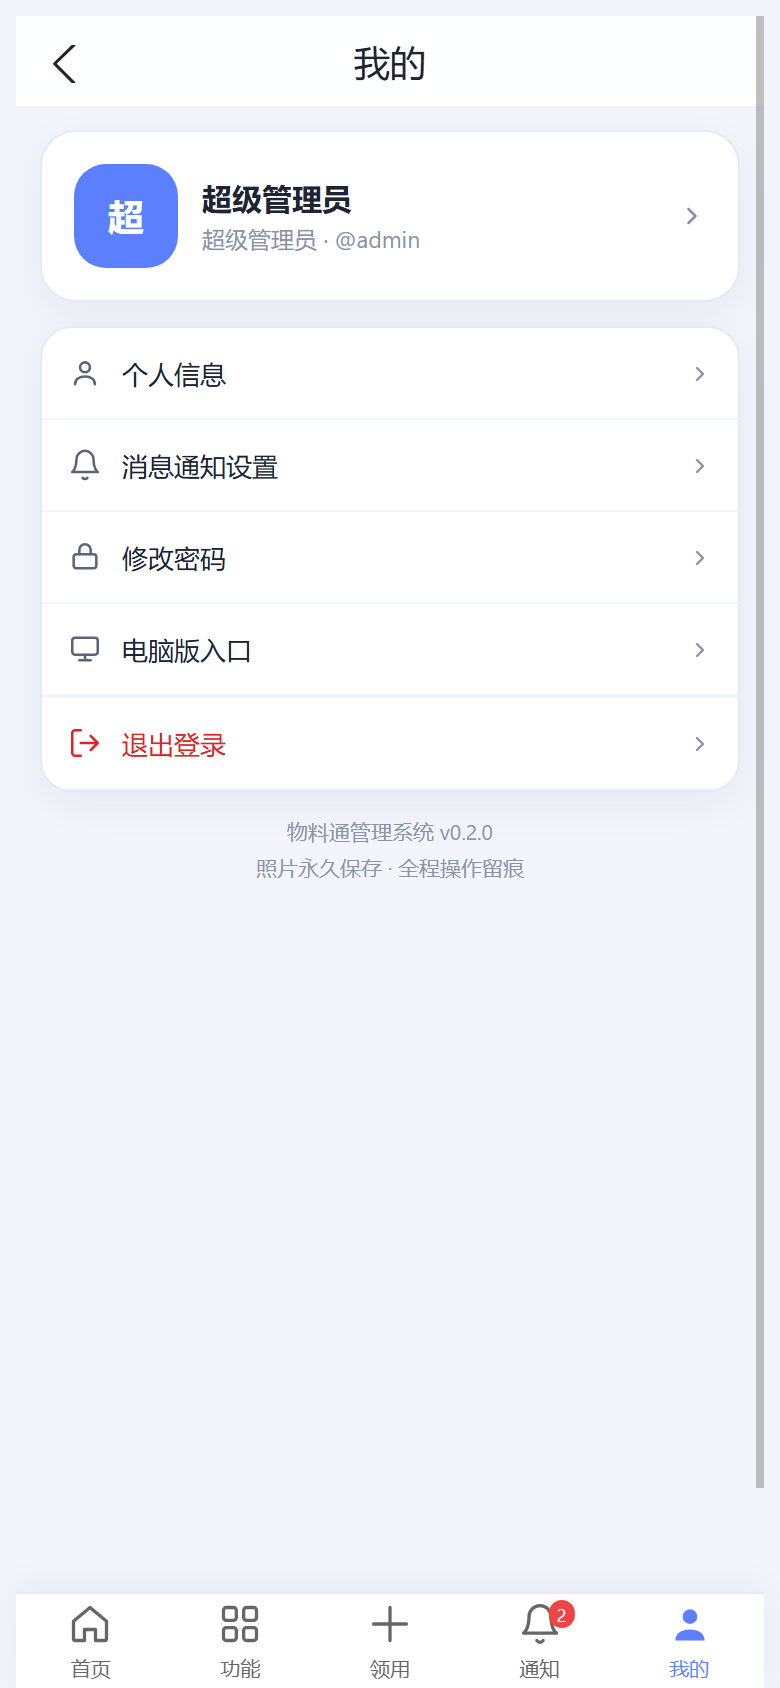
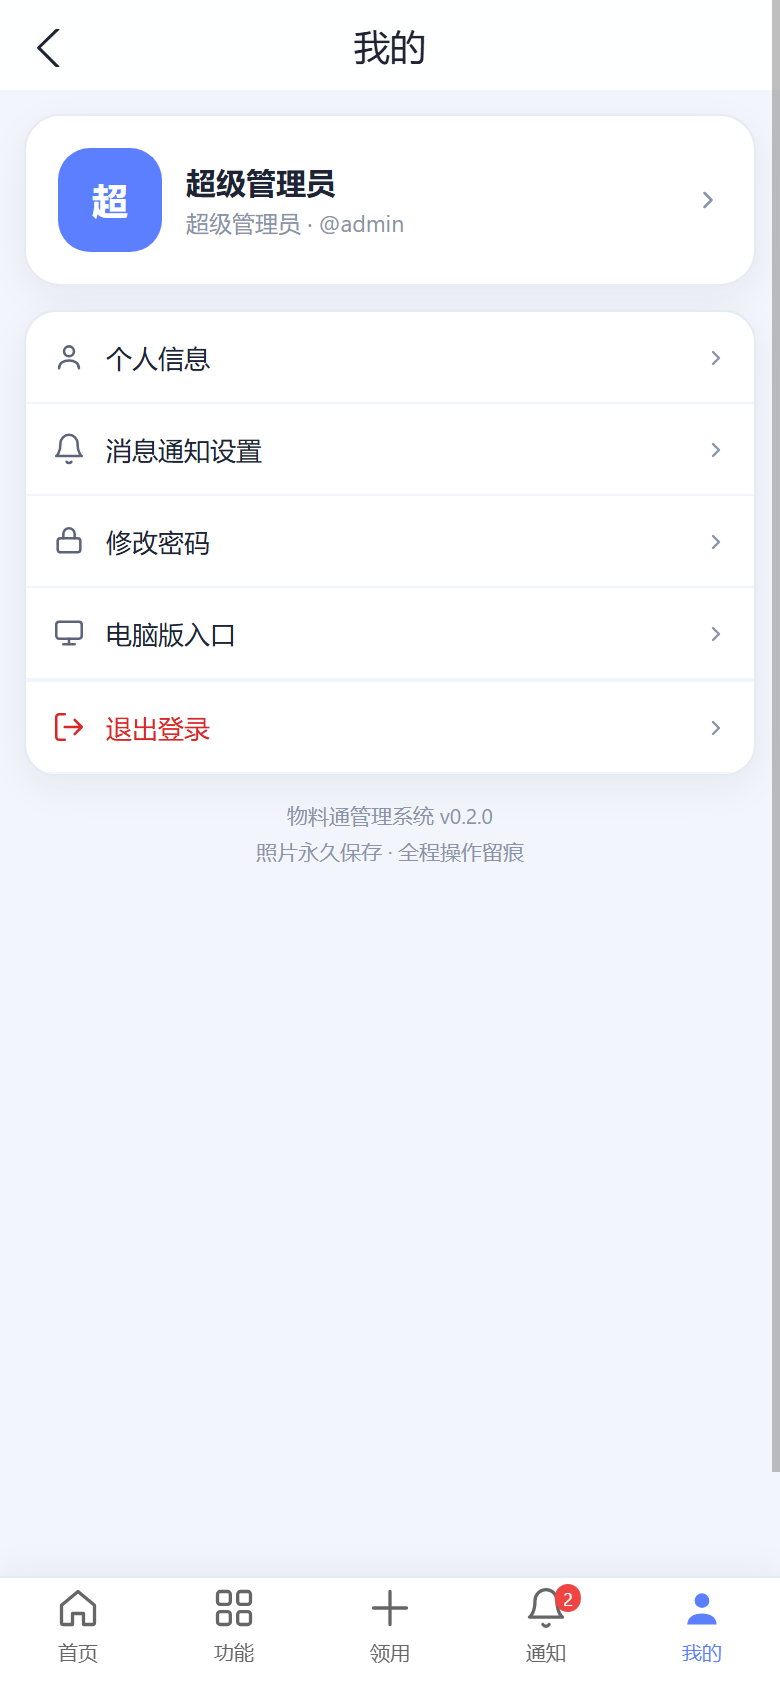
fix(mobile): 实机滚动条修复——body 默认边距全局清零 + 根容器 border-box
根因：浏览器默认 body 8px 边距此前仅在宽屏(≥768)清除，手机端保留原样；
页面根容器均为 minHeight:100dvh → 文档高度恒为视口+16px，每页必出纵向滚动条，
固定底栏与内容错位出白边（桌面测试被宽屏样式掩盖）。

修复：global.css 第 0 节基础重置（html/body margin/padding=0 + text-size-adjust）；
仓库货架/我的任务/通知/调拨列表/领用新建五个带底部留白的根容器补
boxSizing:border-box（padding 计入 100dvh，不再叠加超高）。

验证：核验脚本新增逐页溢出检测（scroll−inner 应为 0），实测六页全部 {w:0,h:0}；
typecheck 零错误 + build 成功。cable/api.ts、Map.tsx 的并行改动未纳入本提交。

diff --git a/frontend/apps/mobile/src/styles/global.css b/frontend/apps/mobile/src/styles/global.css
@@ -4,6 +4,19 @@
  * widescreen.css 只放 ≥768px 的「应用窗口化」适配。
  * ========================================================================== */
 
+/* ---------- 0. 移动端基础重置 ----------
+ * 浏览器默认 body 8px 边距必须清除：页面根容器均为 minHeight:100dvh，
+ * 不清则文档高度 = 视口+16px，每页都出纵向滚动条、固定底栏与内容错位出白边
+ * （此前仅在宽屏样式里清除，实机 <768px 全部中招）。
+ * 同时禁移动端浏览器的字号自动放大（横屏时 Safari 会撑大文字破坏布局）。 */
+html,
+body {
+  margin: 0;
+  padding: 0;
+  -webkit-text-size-adjust: 100%;
+  text-size-adjust: 100%;
+}
+
 /* ---------- 1. 字体与渲染 ---------- */
 html {
   scroll-behavior: smooth;

diff --git a/frontend/apps/mobile/src/pages/RequisitionNew.tsx b/frontend/apps/mobile/src/pages/RequisitionNew.tsx
@@ -1,4 +1,4 @@
-import { useEffect, useRef, useState } from "react";
+import { useEffect, useRef, useState } from "react";
 import { Button, Dialog, Input, List, NavBar, Popup, Stepper, Tag, Toast } from "antd-mobile";
 import { useNavigate } from "react-router";
 
@@ -168,7 +168,7 @@ export function RequisitionNewPage() {
   }
 
   return (
-    <div style={{ minHeight: "100dvh", background: "#F2F5FB", paddingBottom: "calc(84px + env(safe-area-inset-bottom))" }}>
+    <div style={{ minHeight: "100dvh", background: "#F2F5FB", paddingBottom: "calc(84px + env(safe-area-inset-bottom))", boxSizing: "border-box" }}>
       <NavBar onBack={() => navigate("/")}>领用申请</NavBar>
       <div style={{ padding: 12 }}>
         {/* 出库仓库 */}

diff --git a/frontend/apps/mobile/src/pages/Transfers.tsx b/frontend/apps/mobile/src/pages/Transfers.tsx
@@ -1,4 +1,4 @@
-import { useEffect, useState } from "react";
+import { useEffect, useState } from "react";
 import { Button, Dialog, List, NavBar, Popup, Stepper, Tabs, Tag, Toast } from "antd-mobile";
 import { useNavigate } from "react-router";
 
@@ -242,7 +242,7 @@ export function TransfersPage() {
 
   // ===== 列表视图 =====
   return (
-    <div style={{ minHeight: "100dvh", background: "#F2F5FB", paddingBottom: 72 }}>
+    <div style={{ minHeight: "100dvh", background: "#F2F5FB", paddingBottom: 72, boxSizing: "border-box" }}>
       <NavBar onBack={() => navigate("/")}>库存调拨</NavBar>
       <Tabs activeKey={tab} onChange={setTab}>
         <Tabs.Tab title="全部" key="all" />

diff --git a/frontend/apps/mobile/src/pages/Warehouses.tsx b/frontend/apps/mobile/src/pages/Warehouses.tsx
@@ -58,7 +58,7 @@ export function WarehousesPage() {
   }, [stocks]);
 
   return (
-    <div style={{ minHeight: "100dvh", background: "#F2F5FB", paddingBottom: 24 }}>
+    <div style={{ minHeight: "100dvh", background: "#F2F5FB", paddingBottom: 24, boxSizing: "border-box" }}>
       <NavBar onBack={() => navigate("/")}>仓库与货架</NavBar>
 
       <div style={{ padding: 12, display: "flex", flexDirection: "column", gap: 10 }}>

diff --git a/frontend/apps/mobile/src/modules/task/MyTasks.tsx b/frontend/apps/mobile/src/modules/task/MyTasks.tsx
@@ -106,7 +106,7 @@ export function MyTasksPage() {
 
   return (
     <ModuleGate code="task" title="我的任务">
-    <div style={{ minHeight: "100dvh", background: "#F2F5FB", paddingBottom: 24 }}>
+    <div style={{ minHeight: "100dvh", background: "#F2F5FB", paddingBottom: 24, boxSizing: "border-box" }}>
       <NavBar onBack={() => navigate(-1)}>我的任务</NavBar>
 
       {/* 任务卡流（OP Wrap p12 gap10） */}

diff --git a/frontend/apps/mobile/src/pages/Notifications.tsx b/frontend/apps/mobile/src/pages/Notifications.tsx
@@ -141,7 +141,7 @@ export function NotificationsPage() {
   }
 
   return (
-    <div style={{ minHeight: "100dvh", background: "#F2F5FB", paddingBottom: manage ? 76 : 0 }}>
+    <div style={{ minHeight: "100dvh", background: "#F2F5FB", paddingBottom: manage ? 76 : 0, boxSizing: "border-box" }}>
       {/* NavBar（OP：‹ 通知 · 右侧「管理」） */}
       <div
         style={{

diff --git a/AI开发文档/开发进度记录.md b/AI开发文档/开发进度记录.md
@@ -7,6 +7,14 @@
 > 其余历史设计文档已归档至 `历史文档/` 目录——**AI 助手无明确需求时不要加载历史文档**（内容可能过期）。
 
 
+## 手机端实机滚动条修复：body 默认边距全局清零 + 根容器 border-box（2026-08-26）
+
+- **问题（用户实机反馈）**：手机实际访问时，登录页/首页及很多界面出现滚动条（观感「缩放不对」）。
+- **根因**：①浏览器默认 `body { margin: 8px }` 从未在手机端清除（历史批次仅在宽屏 ≥768 清除）——页面根容器均为 `minHeight:100dvh`，文档高度恒为视口+16px，每页必出纵向滚动条，固定底栏与内容错位出白边；桌面测试被宽屏样式掩盖。②部分二级页根容器 `minHeight:100dvh` + `paddingBottom` 在默认 content-box 下叠加超高（仓库货架/我的任务 +24、通知管理模式 +76、调拨列表 +72、领用新建 +84）。
+- **修复**：global.css 新增第 0 节基础重置（html/body margin/padding 清零 + `-webkit-text-size-adjust:100%` 防横屏字号自动放大）；上述五页根容器补 `boxSizing:"border-box"`（底部留白计入 100dvh）。
+- **验证**：verify-ui-mobile.cdp.mjs 新增**逐页溢出检测**（scrollWidth/scrollHeight − innerWidth/innerHeight 应为 0）作为滚动条回归守卫；实测 login/mine/notifications/warehouses/tasks_mine/cable_map 全部 `{w:0,h:0}`；typecheck 零错误 + build 成功。
+- 提交：见 git log。
+
 ## 手机端地图交互修复批：定位静默降级 / 上报选点落针 / 画线测量 / Picker 无反应 / 定位飞行 17 级（2026-08-26）
 
 - **需求（用户反馈）**：①「浏览器定位不可用，已使用 IP 粗略定位」提示不要显示；②上报故障「在地图上选择位置」选完无标记、流程不可用；③新增画线功能；④测距「选择线缆」点击无反应；⑤「我的位置」会猛跳缩放级别；⑥故障管理点「定位」应飞到 17 级。
